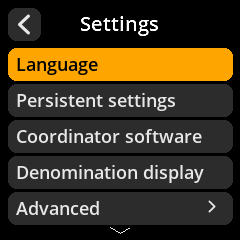
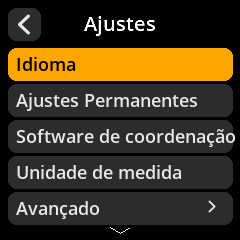
PT update

diff --git a/pt/README.md b/pt/README.md
@@ -1,85 +1,6 @@
 # SeedSigner Screenshots: Portuguese
-MainMenuView:
-
-<img src="MainMenuView.png">
+## Translation progress: 98.3%
 
 ---
 
-PowerOffView:
-
-<img src="PowerOffView.png">
-
----
-
-SettingsUpdatedView:
-
-<img src="SettingsUpdatedView.png">
-
----
-
-LoadSeedView:
-
-<img src="LoadSeedView.png">
-
----
-
-SeedMnemonicEntryView:
-
-<img src="SeedMnemonicEntryView.png">
-
----
-
-SeedMnemonicInvalidView:
-
-<img src="SeedMnemonicInvalidView.png">
-
----
-
-SeedWordsWarningView:
-
-<img src="SeedWordsWarningView.png">
-
----
-
-SettingsMenuView:
-
-<img src="SettingsMenuView.png">
-
----
-
-SettingsEntryUpdateSelectionView:
-
-<img src="SettingsEntryUpdateSelectionView.png">
-
----
-
-IOTestView:
-
-<img src="IOTestView.png">
-
----
-
-DonateView:
-
-<img src="DonateView.png">
-
----
-
-ToolsMenuView:
-
-<img src="ToolsMenuView.png">
-
----
-
-ToolsDiceEntropyMnemonicLengthView:
-
-<img src="ToolsDiceEntropyMnemonicLengthView.png">
-
----
-
-ToolsDiceEntropyEntryView:
-
-<img src="ToolsDiceEntropyEntryView.png">
-
----
-
+<table align="left" style="border: 1px solid gray;"><tr><td align="center">MainMenuView<br/><br/><img src="MainMenuView.png"></td></tr></table><table align="left" style="border: 1px solid gray;"><tr><td align="center">PowerOffView<br/><br/><img src="PowerOffView.png"></td></tr></table><table align="left" style="border: 1px solid gray;"><tr><td align="center">SettingsUpdatedView<br/><br/><img src="SettingsUpdatedView.png"></td></tr></table><table align="left" style="border: 1px solid gray;"><tr><td align="center">LoadSeedView<br/><br/><img src="LoadSeedView.png"></td></tr></table><table align="left" style="border: 1px solid gray;"><tr><td align="center">SeedMnemonicEntryView<br/><br/><img src="SeedMnemonicEntryView.png"></td></tr></table><table align="left" style="border: 1px solid gray;"><tr><td align="center">SeedMnemonicInvalidView<br/><br/><img src="SeedMnemonicInvalidView.png"></td></tr></table><table align="left" style="border: 1px solid gray;"><tr><td align="center">SeedWordsWarningView<br/><br/><img src="SeedWordsWarningView.png"></td></tr></table><table align="left" style="border: 1px solid gray;"><tr><td align="center">SettingsMenuView<br/><br/><img src="SettingsMenuView.png"></td></tr></table><table align="left" style="border: 1px solid gray;"><tr><td align="center">SettingsEntryUpdateSelectionView<br/><br/><img src="SettingsEntryUpdateSelectionView.png"></td></tr></table><table align="left" style="border: 1px solid gray;"><tr><td align="center">IOTestView<br/><br/><img src="IOTestView.png"></td></tr></table><table align="left" style="border: 1px solid gray;"><tr><td align="center">DonateView<br/><br/><img src="DonateView.png"></td></tr></table><table align="left" style="border: 1px solid gray;"><tr><td align="center">ToolsMenuView<br/><br/><img src="ToolsMenuView.png"></td></tr></table><table align="left" style="border: 1px solid gray;"><tr><td align="center">ToolsDiceEntropyMnemonicLengthView<br/><br/><img src="ToolsDiceEntropyMnemonicLengthView.png"></td></tr></table><table align="left" style="border: 1px solid gray;"><tr><td align="center">ToolsDiceEntropyEntryView<br/><br/><img src="ToolsDiceEntropyEntryView.png"></td></tr></table>

diff --git a/README.md b/README.md
@@ -7,5 +7,6 @@
 * [German](de/README.md)
 * [Hebrew](he/README.md)
 * [Japanese](ja/README.md)
+* [Portuguese](pt/README.md)
 * [Russian](ru/README.md)
 * [Spanish](es/README.md)
